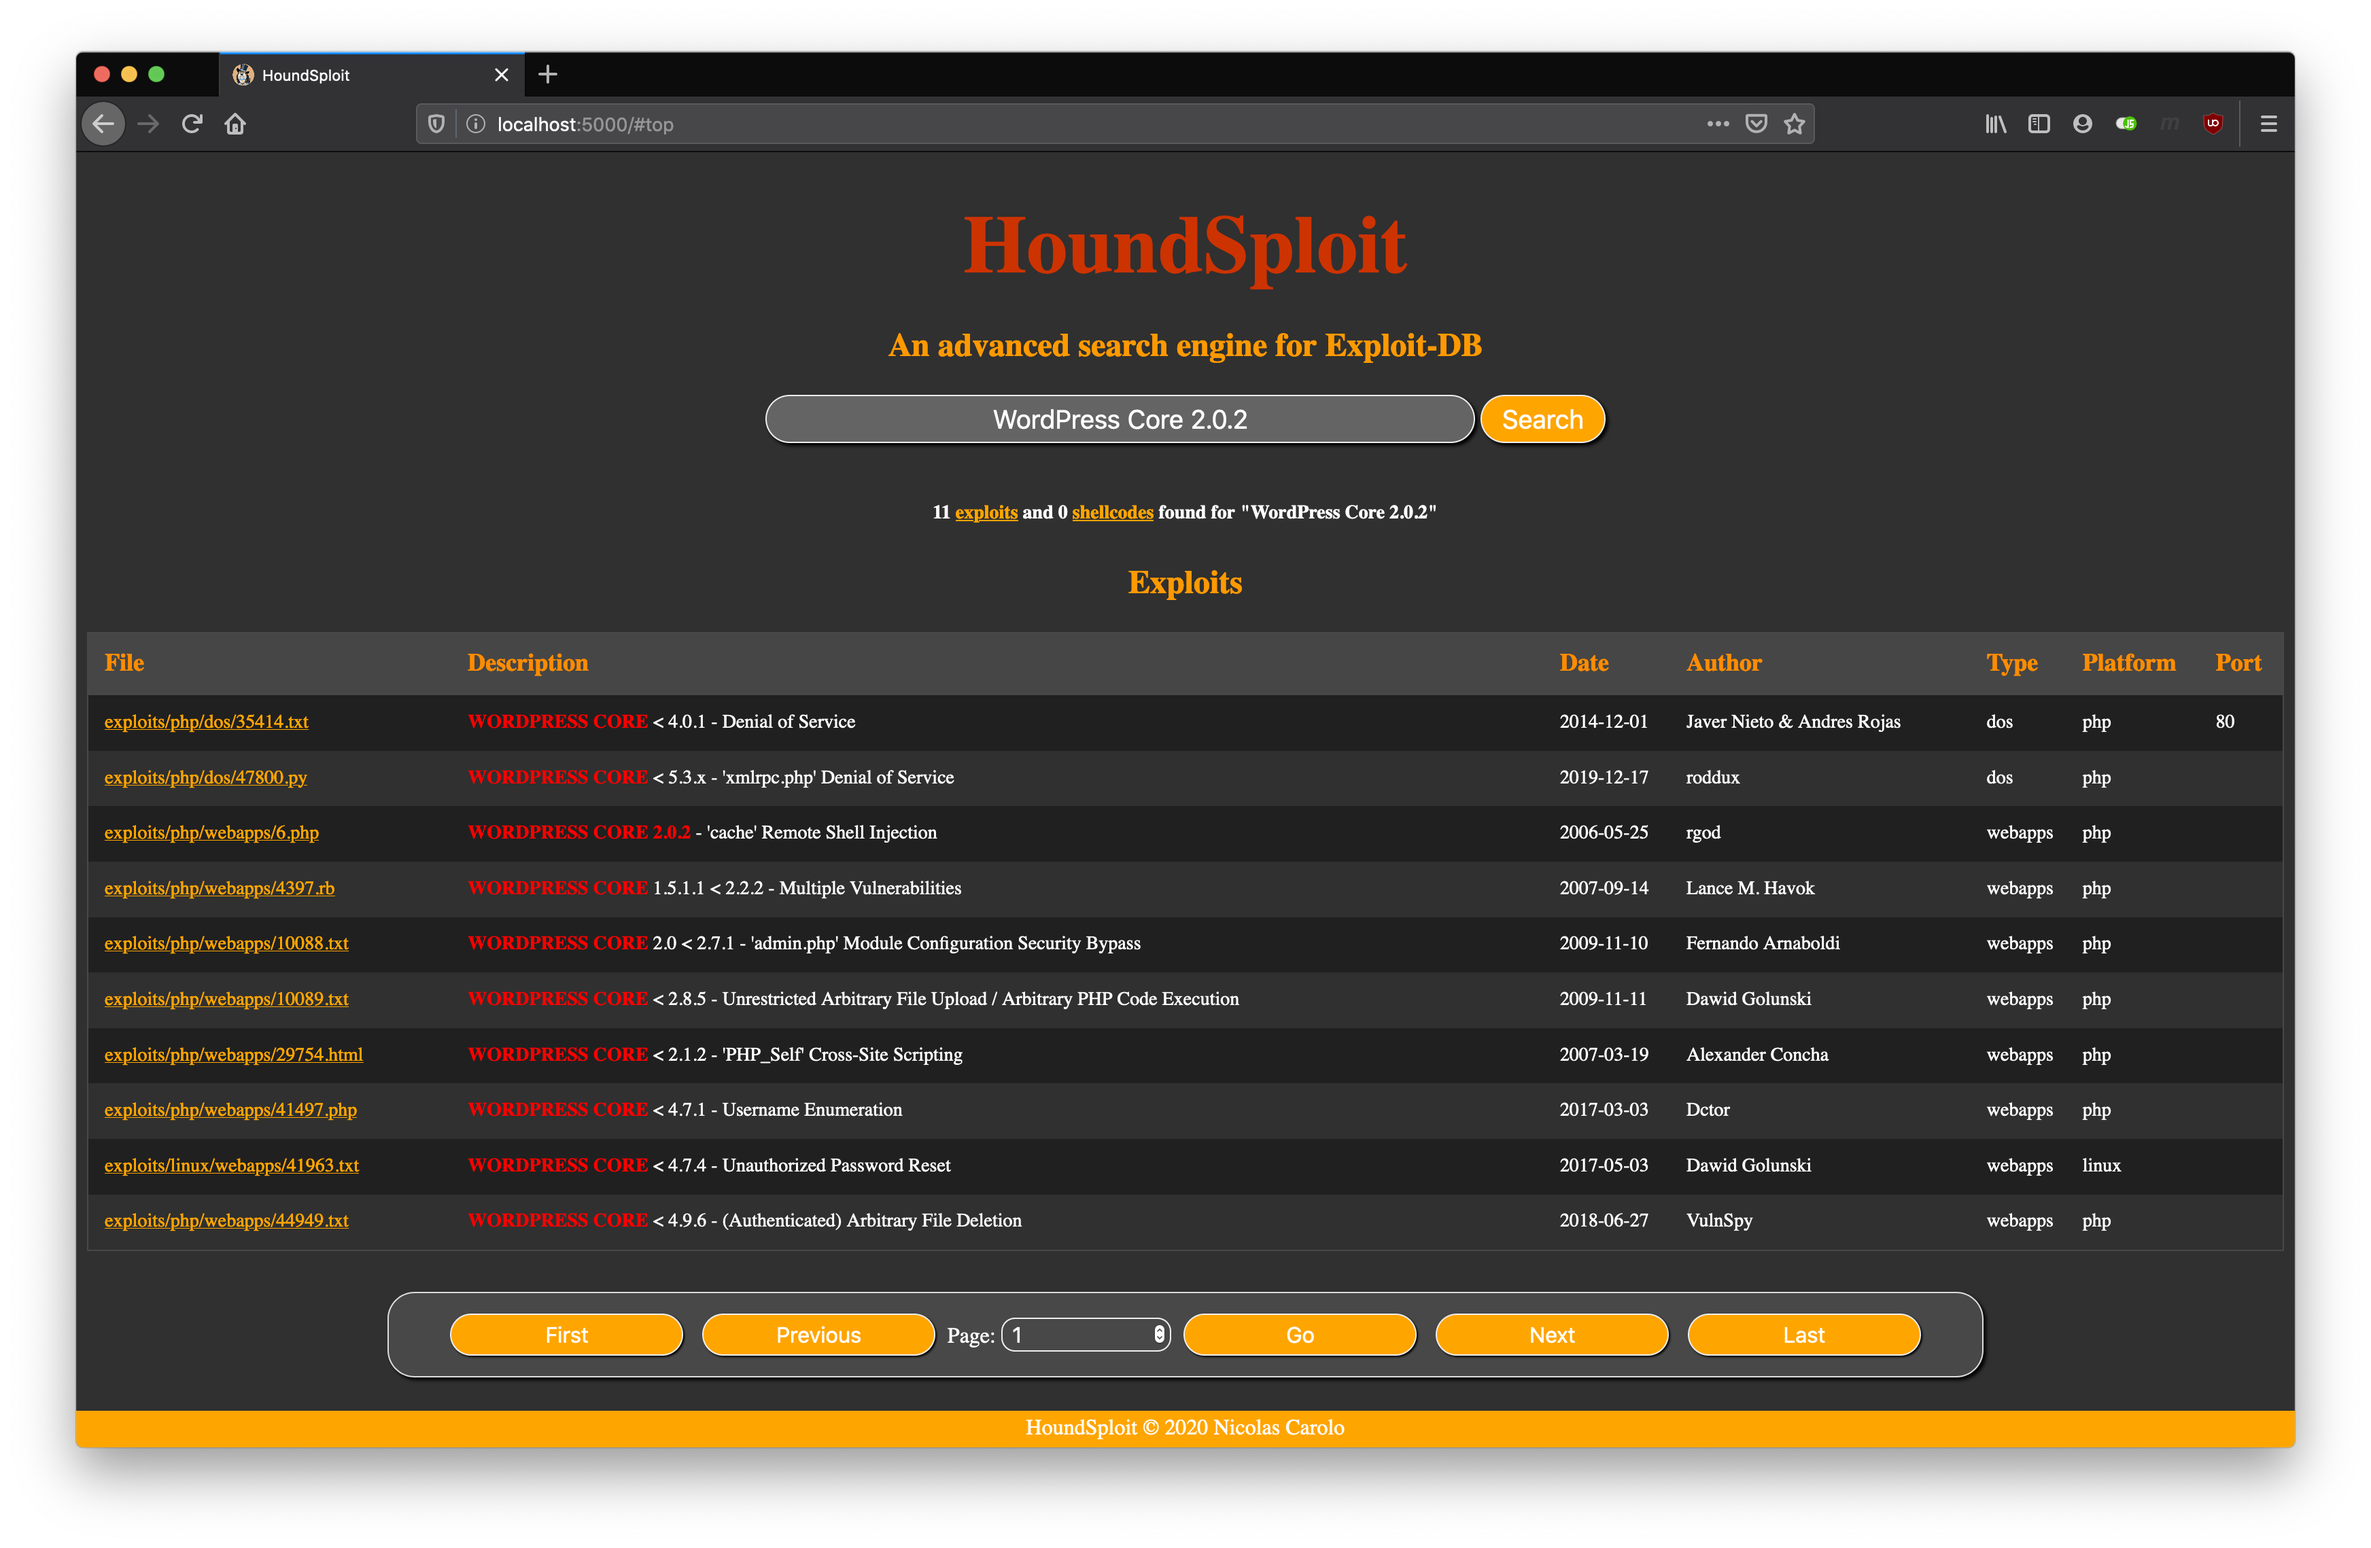
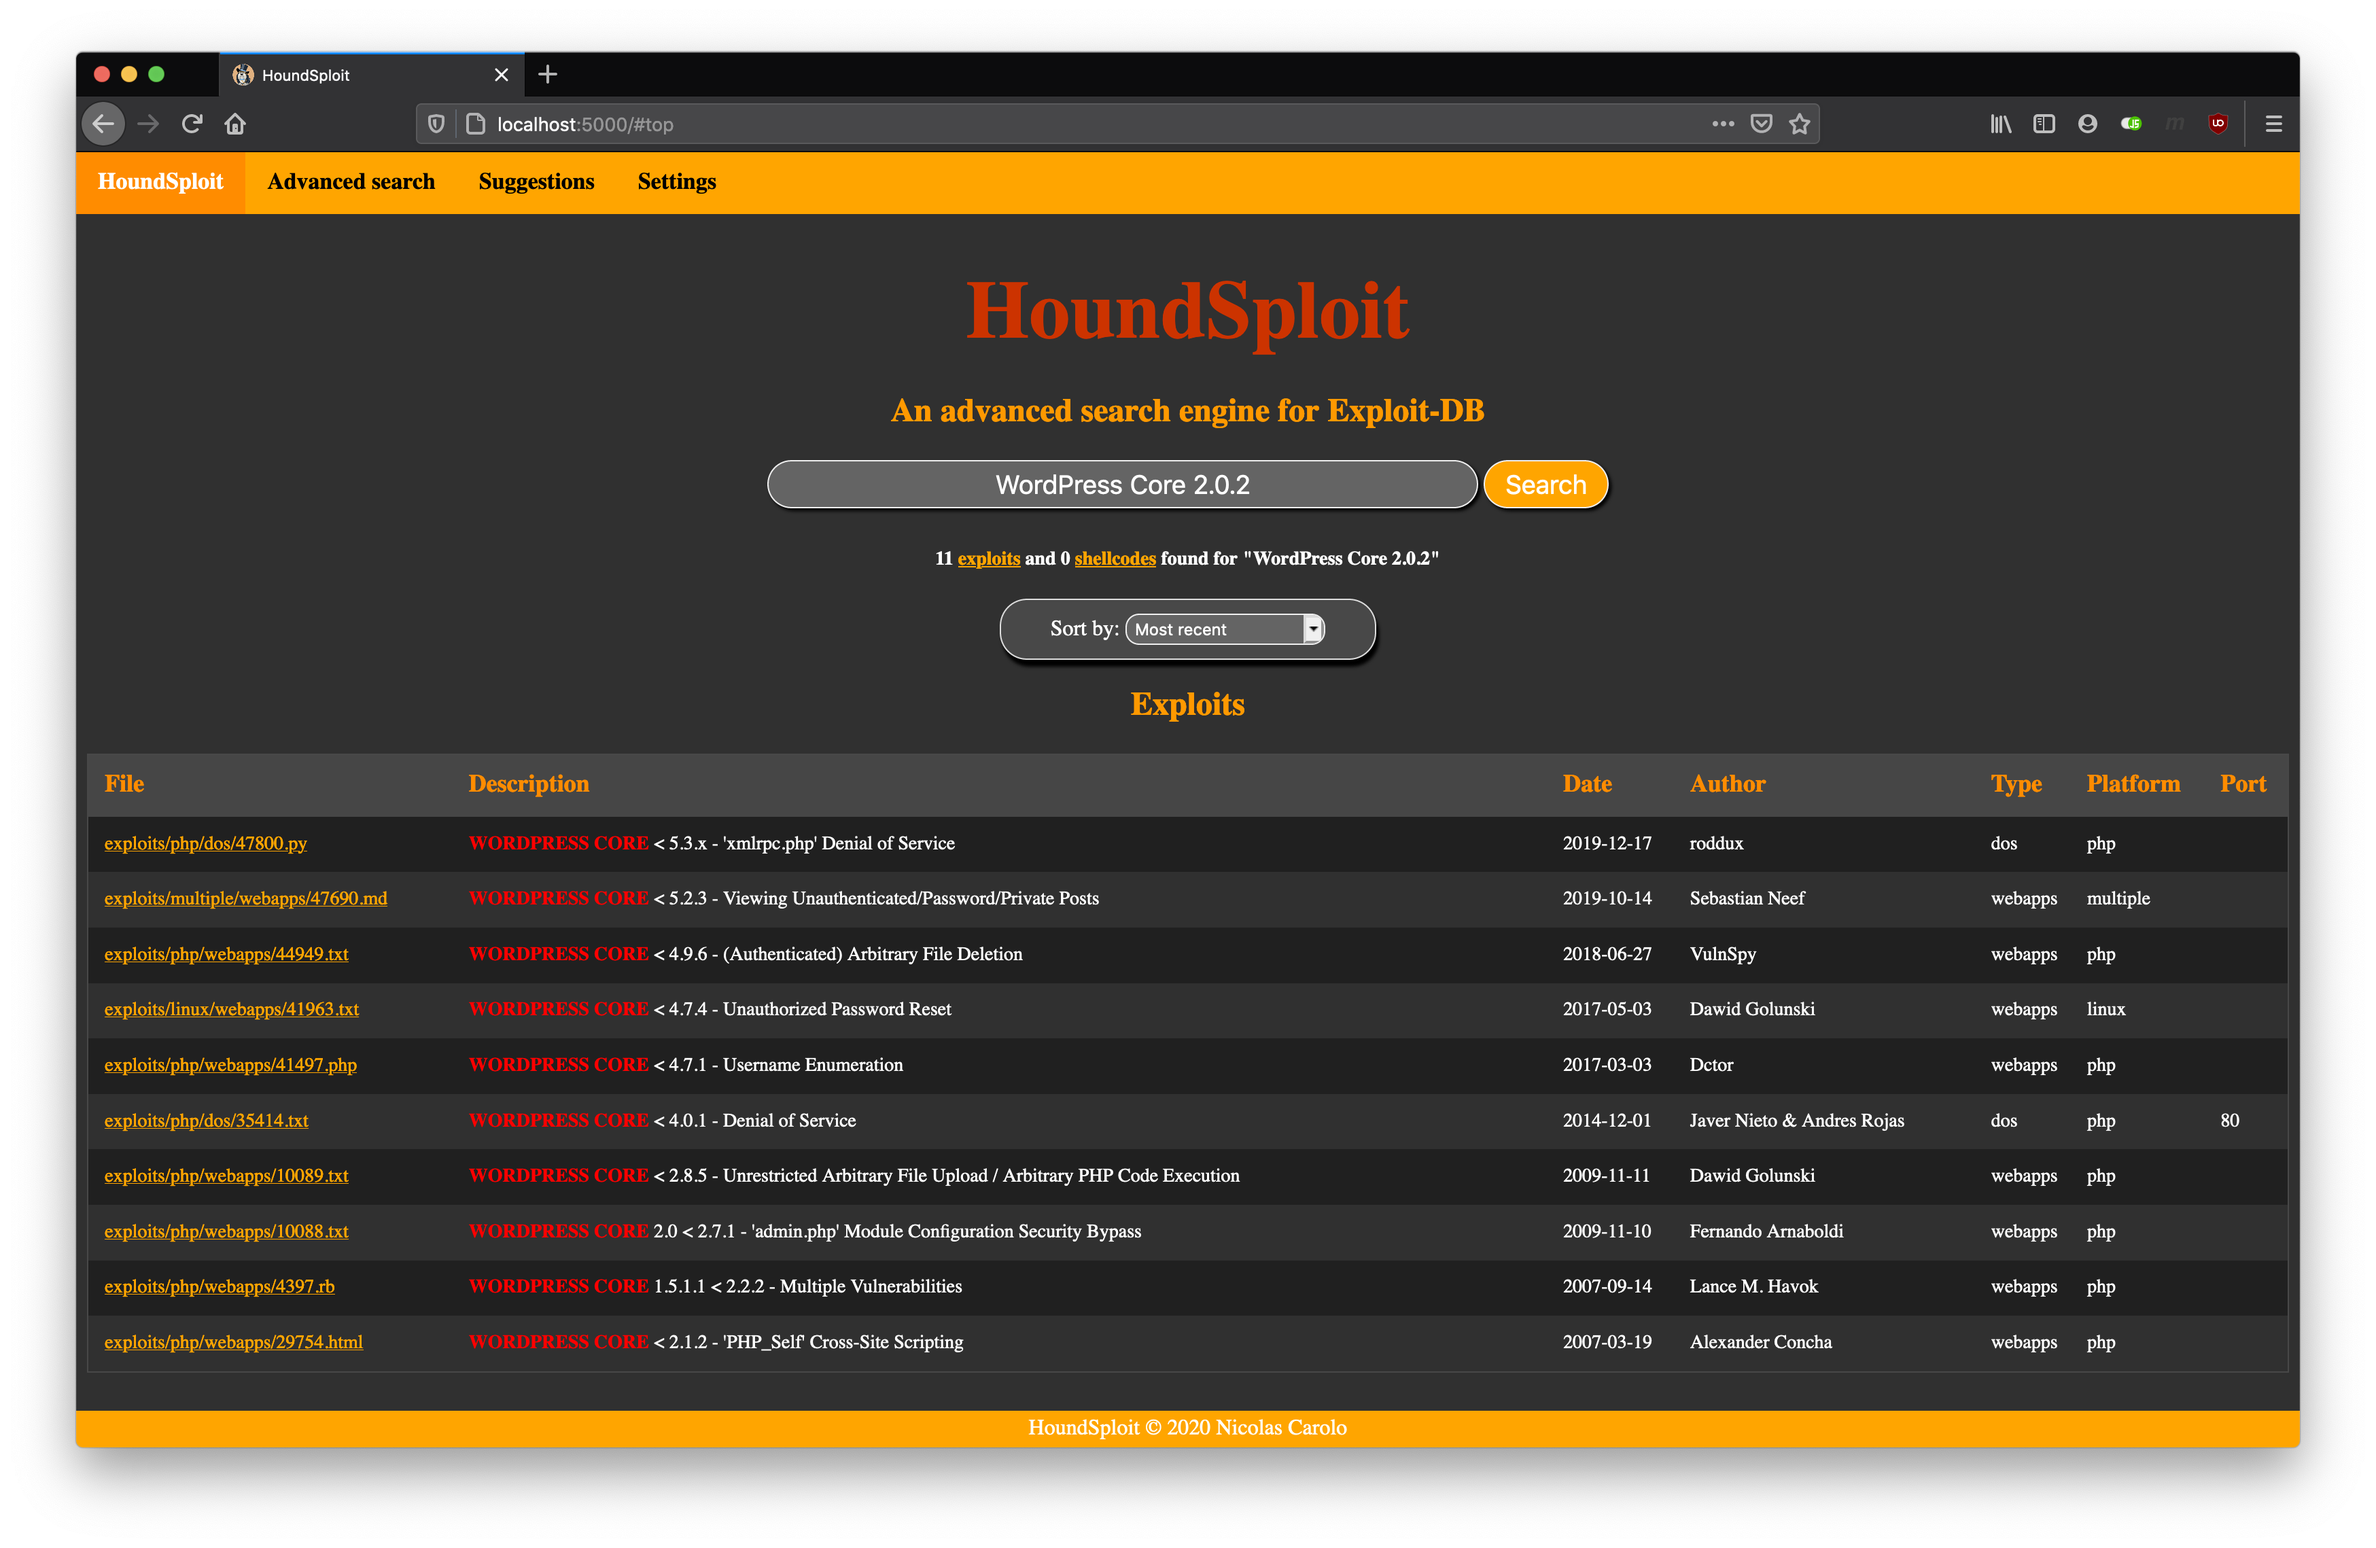
2.4.0: sorting for search results

diff --git a/HoundSploit/static/css/dark-theme/base_searcher.css b/HoundSploit/static/css/dark-theme/base_searcher.css
@@ -44,11 +44,13 @@ div.sort-container select {
     border-radius: 10px;
     border: 1px solid #eeeeee;
     padding: 2px;
+    font-size: 12px;
 }
 
 div.sort-container option {
     background-color: #646464;
     color: white;
+    font-size: 12px;
 }
 
 div.sort-container label {

diff --git a/HoundSploit/static/css/light-theme/base_searcher.css b/HoundSploit/static/css/light-theme/base_searcher.css
@@ -44,11 +44,13 @@ div.sort-container select {
     border-radius: 10px;
     border: 1px solid #828282;
     padding: 2px;
+    font-size: 12px;
 }
 
 div.sort-container option {
     background-color: white;
     color: black;
+    font-size: 12px;
 }
 
 div.sort-container label {

diff --git a/README.md b/README.md
@@ -21,6 +21,7 @@ the most accurate search results.
 
 * Effective version number filtering
 * Advanced filtering
+* Sort by date and description
 * Fast search
 * Search suggestions with customization
 * Syntax highlighting of the source code of exploits and shellcodes
